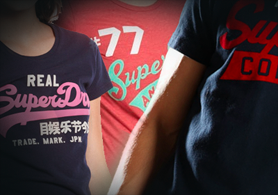
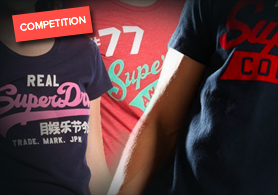
Updates

Changed region(s): [[0.0288, 0.0308, 0.3741, 0.2462]]

diff --git a/assets/ink.css b/assets/ink.css
@@ -328,6 +328,7 @@ body, table.body, h1, h2, h3, h4, h5, h6, p, td {
     margin: 0;
     text-align: left;
     line-height: 1.3;
+    word-break: normal;
 }
 
 h1, h2, h3, h4, h5, h6 {
@@ -349,6 +350,7 @@ p.lead, p.lede, p.leed {
 
 p {
     margin-bottom: 10px;
+    word-break: normal;
 }
 
 small {

diff --git a/_content/feature.php b/_content/feature.php
@@ -3,7 +3,7 @@
         "articles" => array(
             array(
                 "title" => "Kim K Spends Thousands On Plastic Surgery",
-                "excerpt" => "The glamorous 33-year-old has splashed out on a $300,000 surgery spree in preparation for her upcoming wedding.",
+                "excerpt" => "The glamorous 33-year-old has splashed out hundreds of thousands on a surgery spree in preparation for her upcoming wedding.",
                 //"title_catch" => "$300,000 surgery spree in preparation for her upcoming wedding",
                 "url" => "http://www.saudifashionmagazine.com/articles/reading/kim-k-spends-thousands-on-plastic-surgery/",
                 "image" => "/images/kimk.png"
@@ -13,7 +13,7 @@
         "potw" => array(
             array(
                 "title" => "Picture Of The Week",
-                "excerpt" => "Want to see more exclusive fashion snapshots? <br><br/>  Follow SFM on $instagram today!",
+                "excerpt" => "Want to see more exclusive fashion snapshots? <br><br/>  Follow SFM on $instagram today",
                 //"title_catch" => "$300,000 surgery spree in preparation for her upcoming wedding",
                 "url" => "http://instagram.com/p/lslL_cKj0Y/",
                 "image" => "/images/pictureoftheweek.png"
@@ -68,10 +68,10 @@
 
                             <?php foreach ($data['potw'] as $k => $v) : ?>
                                 <tr>
-                                    <td class="feature-article monochrome-main">
+                                    <td class="weekly feature-article">
                                         <div style="margin: 25px;padding: 12px;">
                                             <?php if ($v['title']) :?>
-                                                <h6 style="color: #F0F0F0!important;"><a href="<?= $v['url']; ?>" title="<?= $v['title']; ?>" target="_blank" style="color: #F0F0F0!important;"><?= $v['title']; ?></a></h6>
+                                                <h6><a href="<?= $v['url']; ?>" title="<?= $v['title']; ?>" target="_blank"><?= $v['title']; ?></a></h6>
                                             <?php endif; ?>
                                         </div>
                                         <?php if($v['image']):?>
@@ -90,7 +90,7 @@
                                                     <a href="<?= $v['url']; ?>" title="<?= $v['title_catch'] ?>"><?= $v['title_catch']; ?></a>
                                                 </h5>
                                             <?php endif; ?>
-                                            <div style="margin: 10px;padding: 0 0 37px;"><p><?= $v['excerpt'];?></p></div>
+                                            <div style="margin: 10px;padding: 0 0 27px;"><p><?= $v['excerpt'];?></p></div>
                                         </div>
                                     </td>
                                     <td class="expander"></td>

diff --git a/_content/articles.php b/_content/articles.php
@@ -3,14 +3,14 @@
         "articles" => array(
             array(
                 "title" => "Lucy Watson Is Lipsy’s New VIP Girl",
-                "excerpt" => "Lipsy have announced Made In Chelsea star Lucy Watson as the new face of their VIP line. Here’s an exclusive look at the collection",
+                "excerpt" => "Lipsy have announced Made In Chelsea star Lucy Watson as the new face of their VIP line. Here’s an exclusive look at the collection.",
                 //"title_catch" => "Exclusive look at Made In Chelsea star",
                 "url" => "http://saudifashionmagazine.com/articles/reading/lucy-watson-is-lipsy-new-vip-girl/",
                 "image" => "/images/lucywatson.png"
             ),
             array(
                 "title" => "Quick guide to the perfect selfie",
-                "excerpt" => "We’re loving selfies right now and we know you are too! These top tips will make sure your selfie snaps are picture perfect every time",
+                "excerpt" => "We’re loving selfies right now and we know you are too! These top tips will make sure your selfie snaps are picture perfect every time.",
                 //"title_catch" => "Perfect selfie snaps every time...",
                 "url" => "http://www.saudifashionmagazine.com/articles/reading/great-tips-on-how-to-take-an-amazing-selfie/",
                 "image" => "/images/selfie.jpg"
@@ -28,7 +28,7 @@
             ),
             array(
                 "title" => "",
-                "excerpt" => "For even more fashion satisfaction, join us on $facebook, $twitter, $instagram &amp; $pinterest. <br><br />Don’t forget to <forwardtoafriend>remind your friends</forwardtoafriend> to <a href='$sfm_join_url' title='Sign Up' target='_blank'>sign up</a> to  <a href='$sfm_plus_url' title='$sfm_plus' target='_blank'>$sfm_plus</a> too!",
+                "excerpt" => "For even more fashion news, join us on $facebook, $twitter, $instagram &amp; $pinterest. <br><br />Don’t forget to <forwardtoafriend>remind your friends</forwardtoafriend> to <a href='$sfm_join_url' title='Sign Up' target='_blank'>sign up</a> to  <a href='$sfm_plus_url' title='$sfm_plus' target='_blank'>$sfm_plus</a> too",
                 "type" => "sidebar"
             )
         )

diff --git a/_content/bestoftherest.php b/_content/bestoftherest.php
@@ -10,9 +10,9 @@
                         <div style="margin: 15px;"><p>Just in case you missed them, here are a few of the most popular articles from this week.</p></div>
                         <multiline>
                             <ul style="margin:0;padding:0;text-align: center;">
-                                <li><a href="http://www.saudifashionmagazine.com/articles/reading/the-next-kate-moss/" title="5 Quick Ways You Can Improve Your Manicure" target="_blank">The Next Kate Moss?</a></li>
-                                <li><a href="#" title="Victoria Beckham's Shocking New Venture" target="_blank">The New Fat Melting Injection! </a></li>
-                                <li><a href="http://www.saudifashionmagazine.com/articles/reading/kendalls-high-profile-praise/ " title="Must Know Tips For Eyebrow Care" target="_blank">Kendall Jenner’s High Profile Praise</a></li>
+                                <li><a href="http://www.saudifashionmagazine.com/articles/reading/the-next-kate-moss/" title="The Next Kate Moss?" target="_blank">The Next Kate Moss?</a></li>
+                                <li><a href="http://saudifashionmagazine.com/articles/reading/the-new-fat-melting-injection/" title="The New Fat Melting Injection!" target="_blank">The New Fat Melting Injection </a></li>
+                                <li><a href="http://www.saudifashionmagazine.com/articles/reading/kendalls-high-profile-praise/ " title="Kendall Jenner’s High Profile Praise" target="_blank">Kendall Jenner’s High Profile Praise</a></li>
                             </ul>
                         </multiline>
                     </td>

diff --git a/_content/competitions.php b/_content/competitions.php
@@ -3,7 +3,7 @@
         "articles" => array(
             array(
                 "title" => "Superdry Giveaway",
-                "excerpt" => "We still have a few Superdry t-shirts up for grabs. Enter now for a chance to win before they’re all gone! ",
+                "excerpt" => "We still have a few Superdry t-shirts up for grabs. Enter now for a chance to win before they’re all gone.",
                 "title_catch" => "Superdry T-Shirt Giveaway",
                 "url" => "http://saudifashionmagazine.com/sfm-plus/offers/i-love-superdry/",
                 "image" => "/images/superdrycomp.png",
@@ -11,7 +11,7 @@
             ),
             array(
                 "title" => "Make-up Kit from Flormar",
-                "excerpt" => "Freshen up your look and make-up kit this Spring with a fabulous make-up kit from Flormar ",
+                "excerpt" => "We’ve got an amazing selection of Flormar goodies to give away to a lucky winner.",
                 "title_catch" => "Flormar Make-up Kit",
                 "url" => "http://saudifashionmagazine.com/sfm-plus/offers/i-love-superdry/",
                 "image" => "/images/comp_flormar.png",

diff --git a/_content/intro.php b/_content/intro.php
@@ -17,9 +17,7 @@
                                     </div>
                                     <div style="font-size: 18px;line-height: 1.7;font-style: italic;margin: 30px 20px;text-align: center;">
                                         <span>
-                                            Monochrome is huge this season and this week, we’ll show you how to perfect this look. Read on for the <strong>hottest</strong> fashion <strong>news</strong> and <strong>exclusive</strong> competitions…
-                                            <br><br/>
-                                            Enjoy x
+                                            Monochrome is huge this season and this week, we’ll show you how to perfect this look. Read on for the hottest fashion <strong>news</strong> and exclusive <strong>competitions</strong>…
                                         </span>
                                     </div>
 
